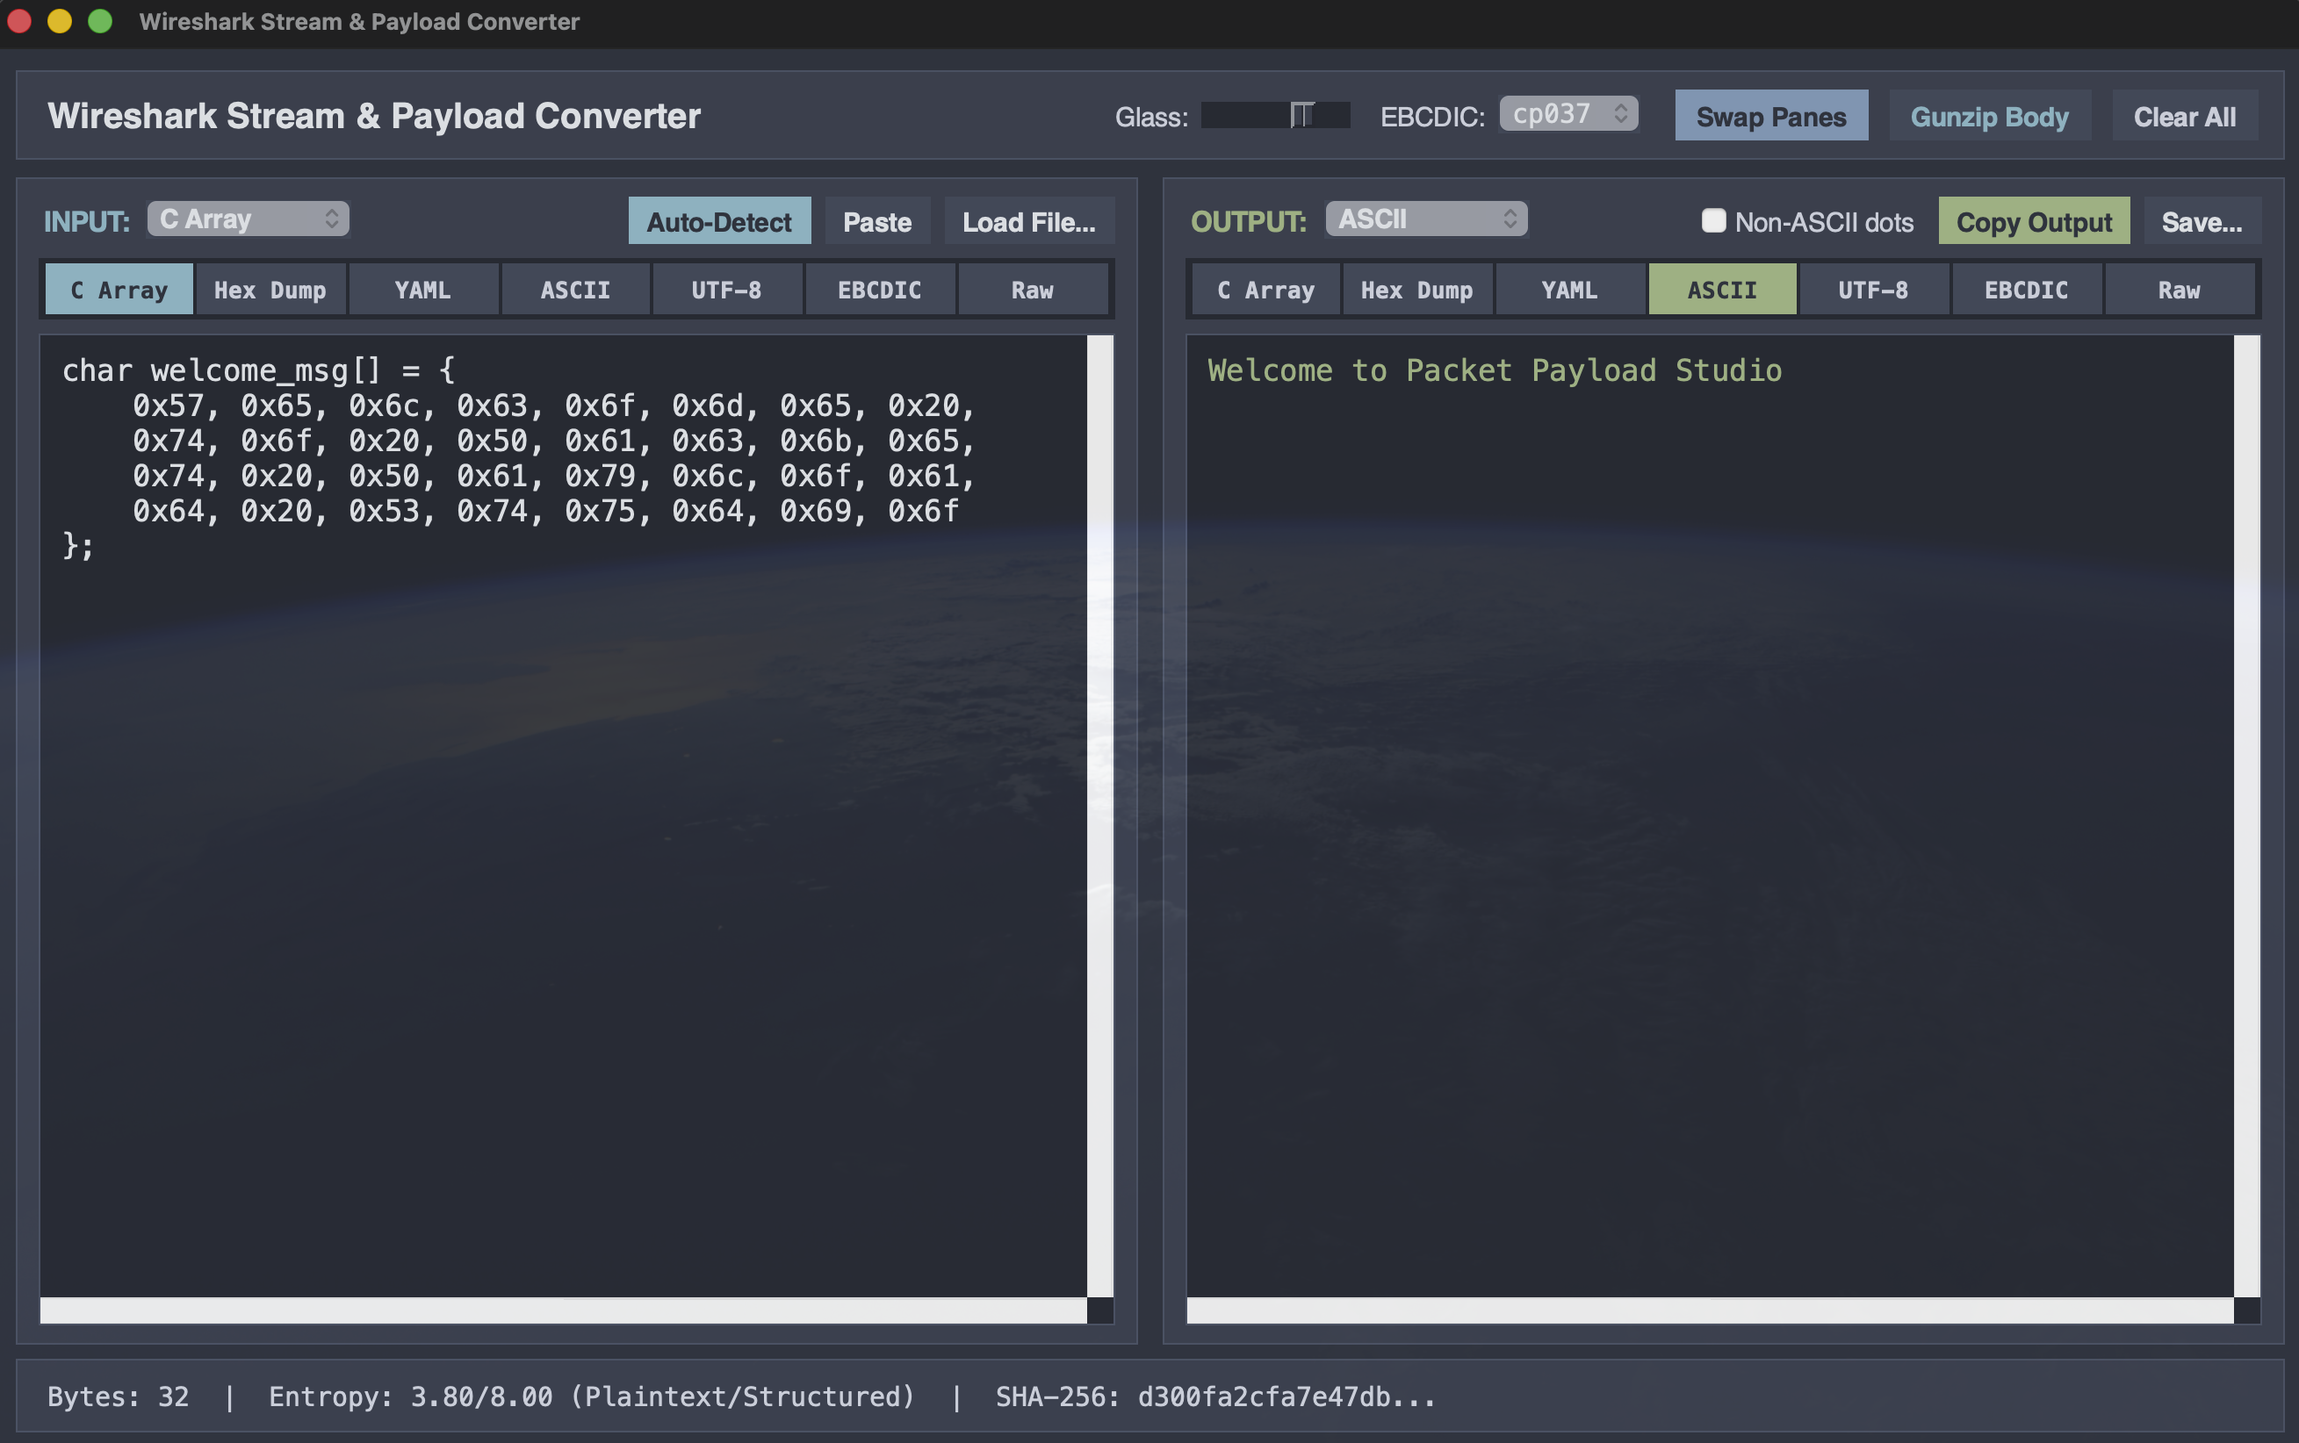
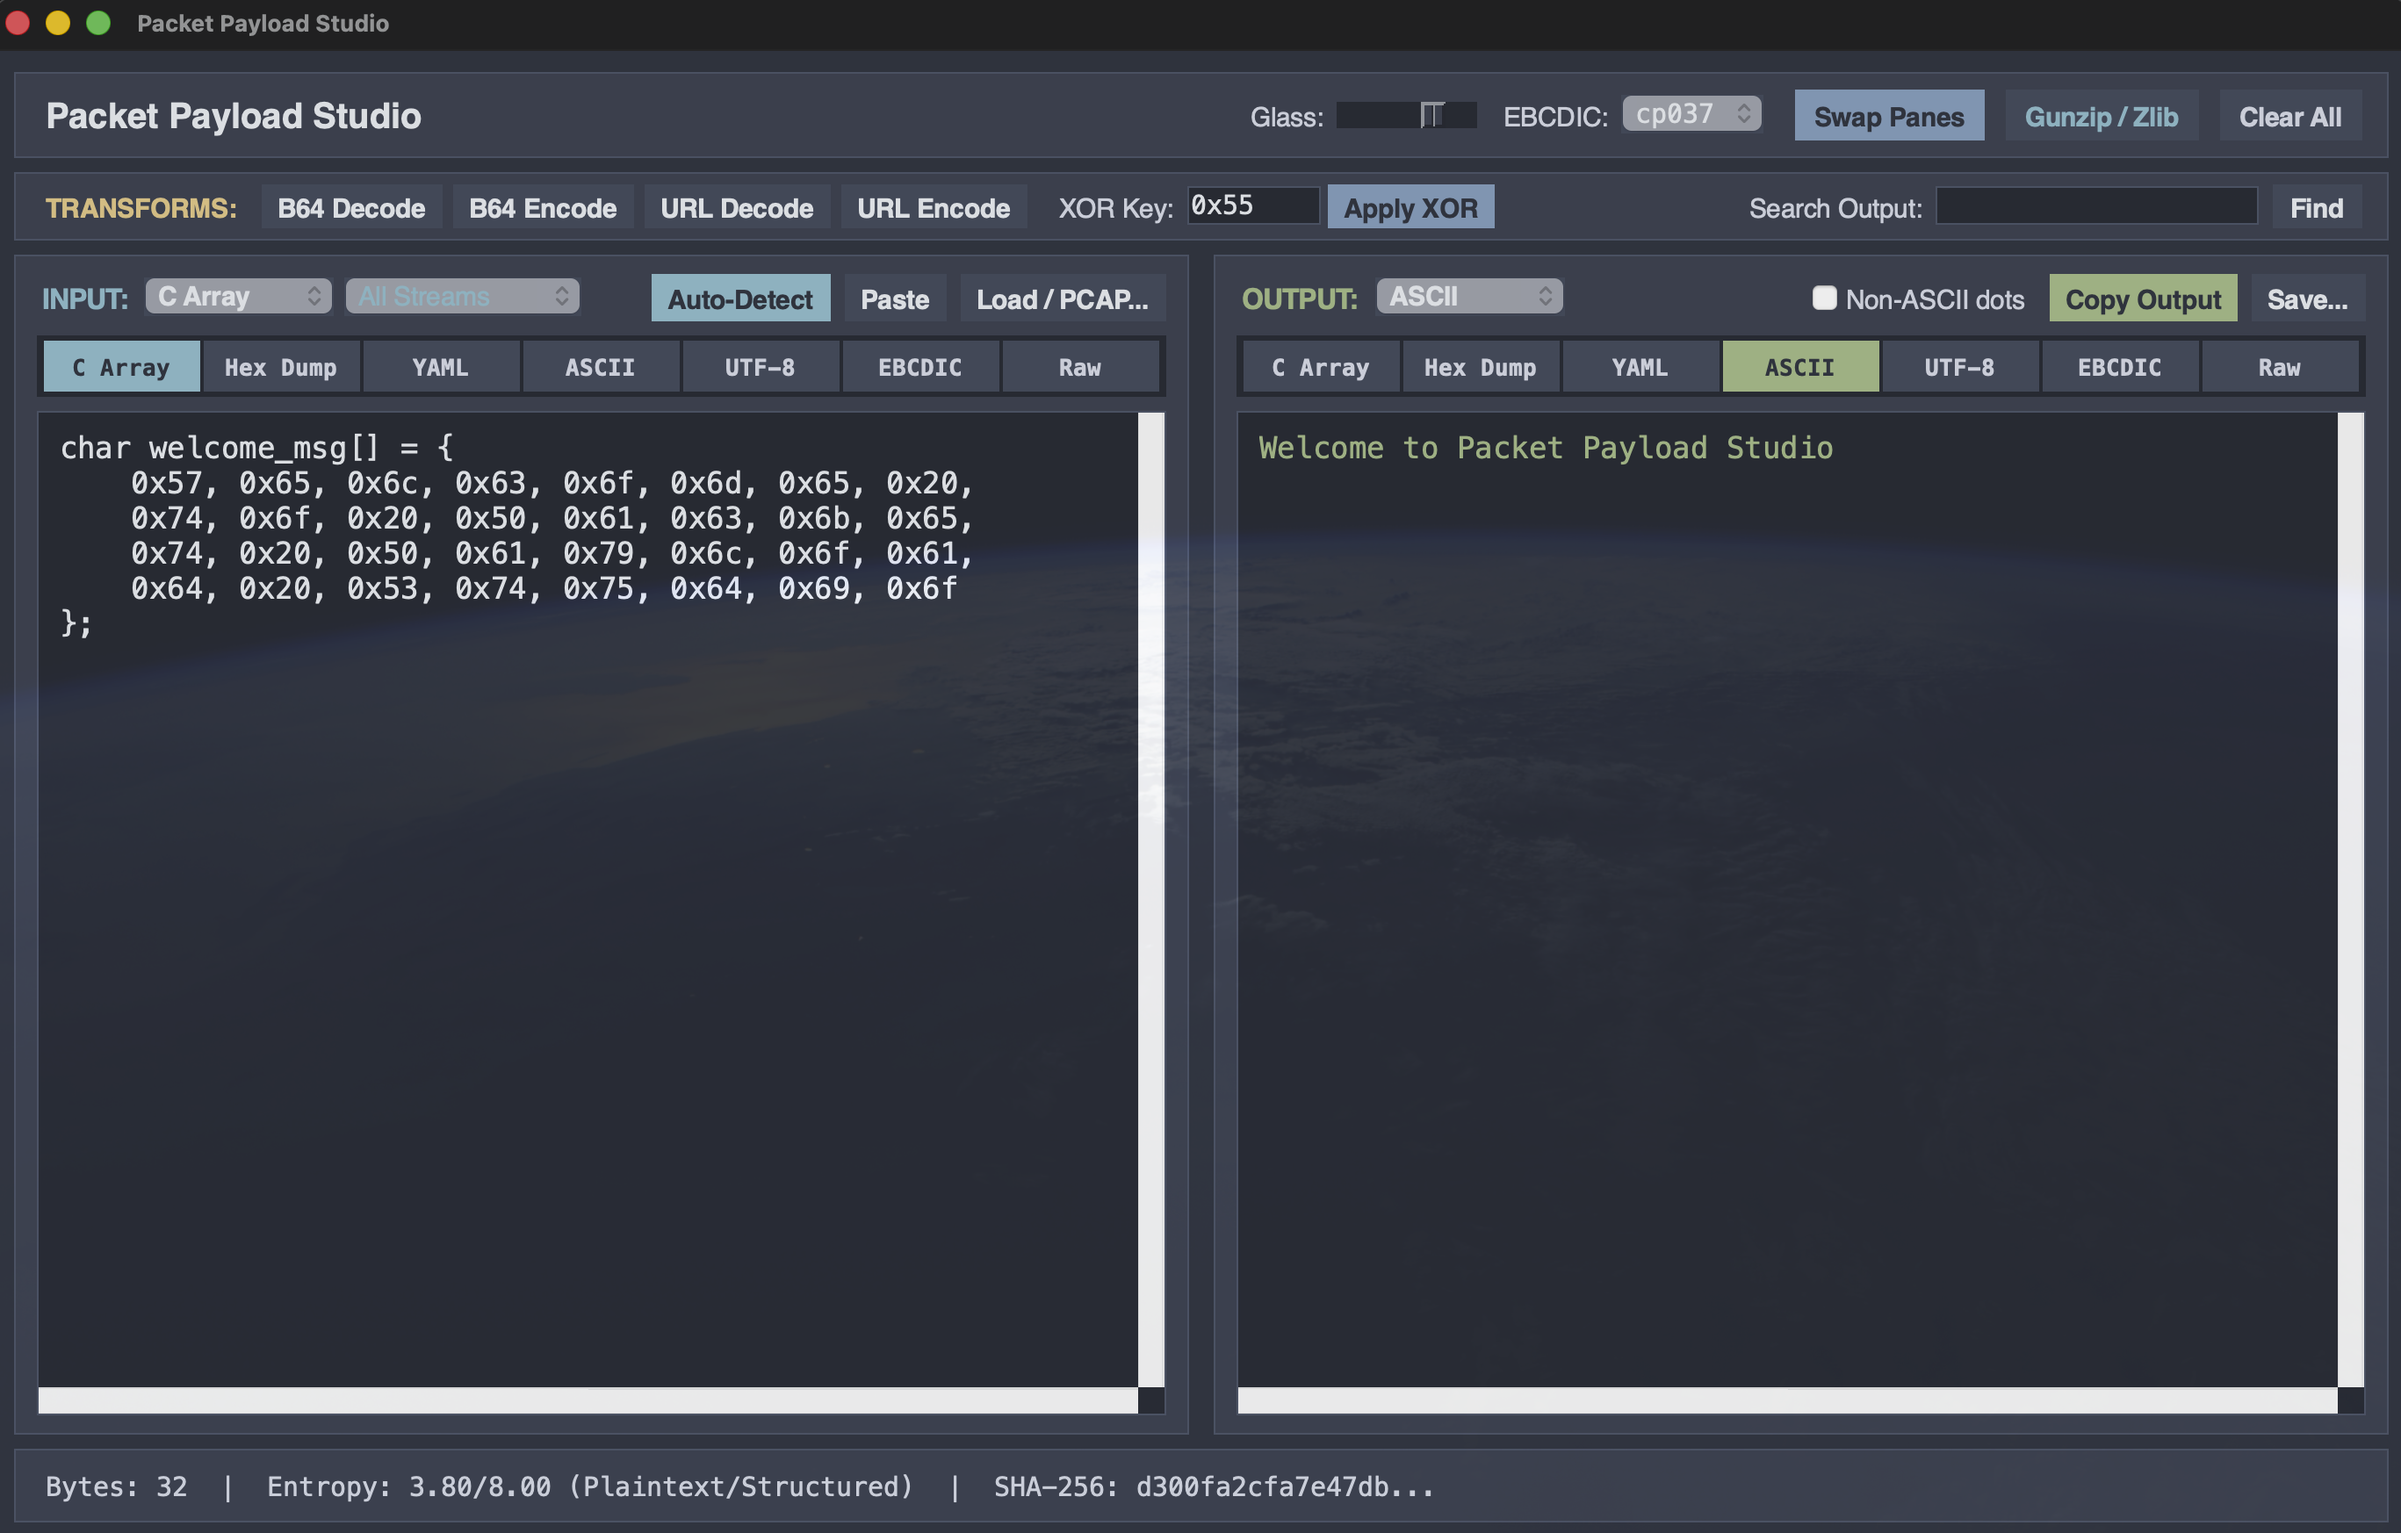
Update preview screenshot and document new transforms, stream filter, PCAP loader, and search features

Changed region(s): [[0.0, 0.031, 0.9901, 0.9307], [0.0, 0.9617, 0.6188, 0.9927], [0.0, 0.0, 0.2475, 0.031]]

diff --git a/README.md b/README.md
@@ -11,7 +11,11 @@ A lightweight, CyberChef-inspired Python desktop GUI built with the Python stand
 - **Dual Format Controls:** Switch formats instantly using either the dropdown menus or equal-width quick-select format tabs above both editors.
 - **Auto-Detect Input:** Automatically identifies C Arrays, offset-prefixed Hex Dumps, YAML stream exports, or plain text upon pasting or loading a file.
 - **Live Payload Inspector:** Real-time byte counter, SHA-256 digest preview, and **Shannon Entropy** score (`0.00`–`8.00`) to distinguish structured plaintext from encrypted or compressed traffic.
-- **Built-in HTTP Gunzip:** Detects Gzip magic bytes (`1f 8b`) in raw payloads or HTTP response bodies and decompresses them in one click.
+- **Built-in HTTP Gunzip & Zlib:** Detects Gzip (`1f 8b`) or Zlib headers in raw payloads or HTTP response bodies and decompresses them in one click.
+- **CyberChef-Style Data Transforms:** Apply Base64 encode/decode, URL encode/decode, and custom hex or ASCII key XOR operations directly on decoded payloads.
+- **Client/Server Stream Splitter (`peer0` / `peer1`):** Isolate client requests (`peer0`) or server responses (`peer1`) from multi-packet Wireshark C Array exports.
+- **Pure-Python `.pcap` Payload Extractor:** Load standard `.pcap` packet captures directly to reassemble IPv4 TCP/UDP application payloads without third-party dependencies.
+- **Live Output Search (`Cmd+F` / `Ctrl+F`):** Search converted output case-insensitively and highlight all matching strings or hex sequences in real time.
 
 ## Project Structure
 
